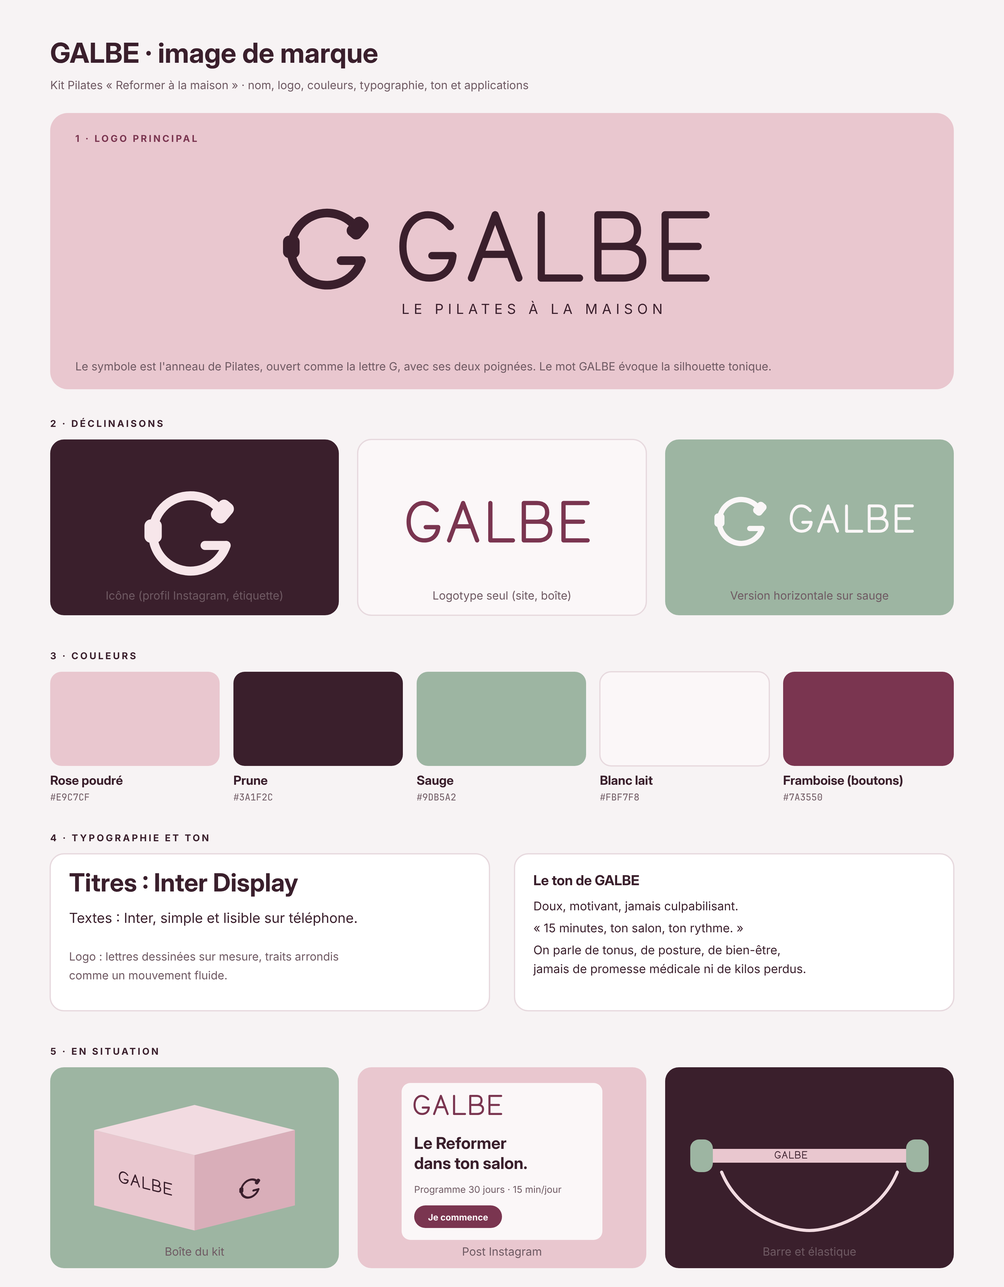
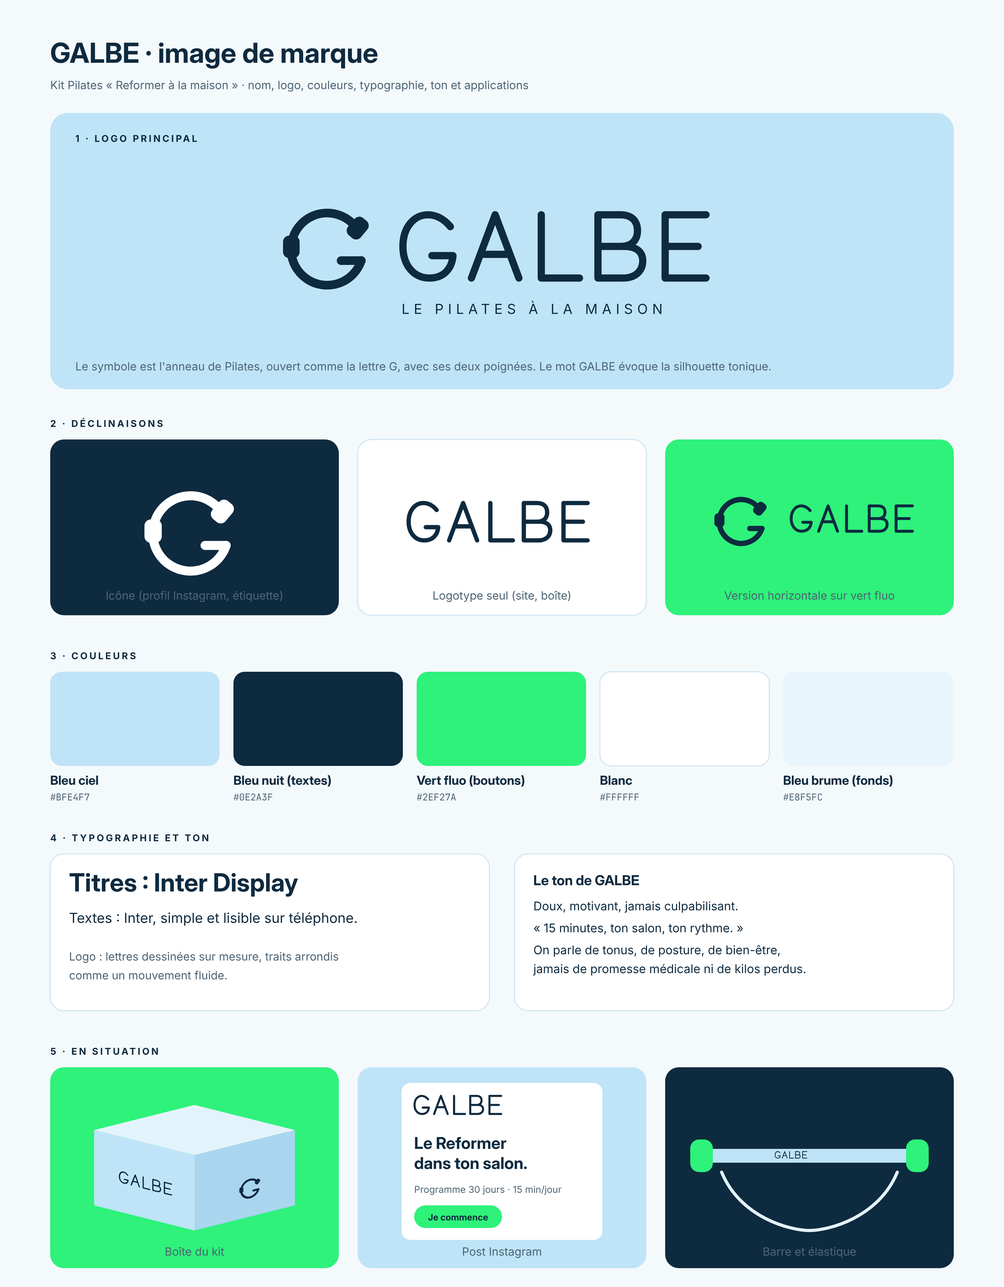
Scutify : GALBE en bleu ciel, blanc et vert fluo
Claude-Session: https://claude.ai/code/session_01N3GcJzoqBz7CtBwAkesLee

diff --git a/scutify/pilates/galbe_marque.html b/scutify/pilates/galbe_marque.html
@@ -1,6 +1,6 @@
 <!doctype html>
 <html><head><meta charset="utf-8">
-<style>html,body{margin:0;background:#f7f3f4}body{width:1600px;height:2050px;font-family:'Inter',sans-serif}</style></head>
+<style>html,body{margin:0;background:#f4f9fc}body{width:1600px;height:2050px;font-family:'Inter',sans-serif}</style></head>
 <body>
 <svg width="1600" height="2050" viewBox="0 0 1600 2050" xmlns="http://www.w3.org/2000/svg">
 <defs>
@@ -21,10 +21,10 @@
     <rect x="-16" y="40" width="22" height="30" rx="8" class="grip"/>
   </g>
   <style>
-    .t{font-family:'Inter Display','Inter',sans-serif;font-weight:700;fill:#3a1f2c}
-    .s{font-size:18px;fill:#6f5a63}
+    .t{font-family:'Inter Display','Inter',sans-serif;font-weight:700;fill:#0e2a3f}
+    .s{font-size:18px;fill:#4d6576}
     .lab{font-size:15px;font-weight:700;letter-spacing:3px}
-    .hex{font-size:15px;fill:#6f5a63;font-family:'JetBrains Mono',monospace}
+    .hex{font-size:15px;fill:#4d6576;font-family:'JetBrains Mono',monospace}
   </style>
 </defs>
 
@@ -32,77 +32,77 @@
 <text x="80" y="142" class="s" font-size="20">Kit Pilates « Reformer à la maison » · nom, logo, couleurs, typographie, ton et applications</text>
 
 <!-- 1. LOGO PRINCIPAL -->
-<rect x="80" y="180" width="1440" height="440" rx="28" fill="#e9c7cf"/>
-<text x="120" y="226" class="lab" fill="#7a3550">1 · LOGO PRINCIPAL</text>
-<g transform="translate(470 330)" stroke="#3a1f2c" class="markc"><g style="fill:#3a1f2c"><use href="#mark" transform="scale(1.15)"/></g></g>
-<g transform="translate(640 340) scale(1.05)" stroke="#3a1f2c"><use href="#word"/></g>
-<text x="640" y="500" font-size="22" fill="#3a1f2c" letter-spacing="7" font-family="Inter">LE PILATES À LA MAISON</text>
-<text x="120" y="590" class="s" fill="#5a3443">Le symbole est l'anneau de Pilates, ouvert comme la lettre G, avec ses deux poignées. Le mot GALBE évoque la silhouette tonique.</text>
+<rect x="80" y="180" width="1440" height="440" rx="28" fill="#bfe4f7"/>
+<text x="120" y="226" class="lab" fill="#0e2a3f">1 · LOGO PRINCIPAL</text>
+<g transform="translate(470 330)" stroke="#0e2a3f" class="markc"><g style="fill:#0e2a3f"><use href="#mark" transform="scale(1.15)"/></g></g>
+<g transform="translate(640 340) scale(1.05)" stroke="#0e2a3f"><use href="#word"/></g>
+<text x="640" y="500" font-size="22" fill="#0e2a3f" letter-spacing="7" font-family="Inter">LE PILATES À LA MAISON</text>
+<text x="120" y="590" class="s" fill="#2c4a5e">Le symbole est l'anneau de Pilates, ouvert comme la lettre G, avec ses deux poignées. Le mot GALBE évoque la silhouette tonique.</text>
 
 <!-- 2. DÉCLINAISONS -->
-<text x="80" y="680" class="lab" fill="#3a1f2c">2 · DÉCLINAISONS</text>
-<rect x="80" y="700" width="460" height="280" rx="22" fill="#3a1f2c"/>
-<g transform="translate(250 780)" stroke="#f7e6ea"><g style="fill:#f7e6ea"><use href="#mark" transform="scale(1.2)"/></g></g>
-<text x="310" y="955" text-anchor="middle" class="s" fill="#d9b8c3">Icône (profil Instagram, étiquette)</text>
-<rect x="570" y="700" width="460" height="280" rx="22" fill="#fbf7f8" stroke="#e7d9de" stroke-width="2"/>
-<g transform="translate(650 800) scale(.62)" stroke="#7a3550"><use href="#word"/></g>
+<text x="80" y="680" class="lab" fill="#0e2a3f">2 · DÉCLINAISONS</text>
+<rect x="80" y="700" width="460" height="280" rx="22" fill="#0e2a3f"/>
+<g transform="translate(250 780)" stroke="#ffffff"><g style="fill:#ffffff"><use href="#mark" transform="scale(1.2)"/></g></g>
+<text x="310" y="955" text-anchor="middle" class="s" fill="#9fc3d8">Icône (profil Instagram, étiquette)</text>
+<rect x="570" y="700" width="460" height="280" rx="22" fill="#ffffff" stroke="#d6e9f3" stroke-width="2"/>
+<g transform="translate(650 800) scale(.62)" stroke="#0e2a3f"><use href="#word"/></g>
 <text x="800" y="955" text-anchor="middle" class="s">Logotype seul (site, boîte)</text>
-<rect x="1060" y="700" width="460" height="280" rx="22" fill="#9db5a2"/>
-<g transform="translate(1150 790) scale(.7)" stroke="#fbf7f8"><g style="fill:#fbf7f8"><use href="#mark"/></g></g>
-<g transform="translate(1260 805) scale(.42)" stroke="#fbf7f8"><use href="#word"/></g>
-<text x="1290" y="955" text-anchor="middle" class="s" fill="#2f4a37">Version horizontale sur sauge</text>
+<rect x="1060" y="700" width="460" height="280" rx="22" fill="#2ef27a"/>
+<g transform="translate(1150 790) scale(.7)" stroke="#0e2a3f"><g style="fill:#0e2a3f"><use href="#mark"/></g></g>
+<g transform="translate(1260 805) scale(.42)" stroke="#0e2a3f"><use href="#word"/></g>
+<text x="1290" y="955" text-anchor="middle" class="s" fill="#0e2a3f">Version horizontale sur vert fluo</text>
 
 <!-- 3. COULEURS -->
-<text x="80" y="1050" class="lab" fill="#3a1f2c">3 · COULEURS</text>
+<text x="80" y="1050" class="lab" fill="#0e2a3f">3 · COULEURS</text>
 <g transform="translate(80 1070)">
-  <rect width="270" height="150" rx="18" fill="#e9c7cf"/><text x="0" y="180" class="t" font-size="20">Rose poudré</text><text x="0" y="205" class="hex">#E9C7CF</text>
-  <rect x="292" width="270" height="150" rx="18" fill="#3a1f2c"/><text x="292" y="180" class="t" font-size="20">Prune</text><text x="292" y="205" class="hex">#3A1F2C</text>
-  <rect x="584" width="270" height="150" rx="18" fill="#9db5a2"/><text x="584" y="180" class="t" font-size="20">Sauge</text><text x="584" y="205" class="hex">#9DB5A2</text>
-  <rect x="876" width="270" height="150" rx="18" fill="#fbf7f8" stroke="#e7d9de" stroke-width="2"/><text x="876" y="180" class="t" font-size="20">Blanc lait</text><text x="876" y="205" class="hex">#FBF7F8</text>
-  <rect x="1168" width="272" height="150" rx="18" fill="#7a3550"/><text x="1168" y="180" class="t" font-size="20">Framboise (boutons)</text><text x="1168" y="205" class="hex">#7A3550</text>
+  <rect width="270" height="150" rx="18" fill="#bfe4f7"/><text x="0" y="180" class="t" font-size="20">Bleu ciel</text><text x="0" y="205" class="hex">#BFE4F7</text>
+  <rect x="292" width="270" height="150" rx="18" fill="#0e2a3f"/><text x="292" y="180" class="t" font-size="20">Bleu nuit (textes)</text><text x="292" y="205" class="hex">#0E2A3F</text>
+  <rect x="584" width="270" height="150" rx="18" fill="#2ef27a"/><text x="584" y="180" class="t" font-size="20">Vert fluo (boutons)</text><text x="584" y="205" class="hex">#2EF27A</text>
+  <rect x="876" width="270" height="150" rx="18" fill="#ffffff" stroke="#d6e9f3" stroke-width="2"/><text x="876" y="180" class="t" font-size="20">Blanc</text><text x="876" y="205" class="hex">#FFFFFF</text>
+  <rect x="1168" width="272" height="150" rx="18" fill="#e8f5fc"/><text x="1168" y="180" class="t" font-size="20">Bleu brume (fonds)</text><text x="1168" y="205" class="hex">#E8F5FC</text>
 </g>
 
 <!-- 4. TYPO + TON -->
-<text x="80" y="1340" class="lab" fill="#3a1f2c">4 · TYPOGRAPHIE ET TON</text>
-<rect x="80" y="1360" width="700" height="250" rx="22" fill="#fff" stroke="#e7d9de" stroke-width="2"/>
-<text x="110" y="1420" font-family="'Inter Display',Inter,sans-serif" font-weight="700" font-size="40" fill="#3a1f2c">Titres : Inter Display</text>
-<text x="110" y="1470" font-family="Inter" font-size="22" fill="#3a1f2c">Textes : Inter, simple et lisible sur téléphone.</text>
-<text x="110" y="1530" font-family="Inter" font-size="18" fill="#6f5a63">Logo : lettres dessinées sur mesure, traits arrondis</text>
-<text x="110" y="1560" font-family="Inter" font-size="18" fill="#6f5a63">comme un mouvement fluide.</text>
-<rect x="820" y="1360" width="700" height="250" rx="22" fill="#fff" stroke="#e7d9de" stroke-width="2"/>
+<text x="80" y="1340" class="lab" fill="#0e2a3f">4 · TYPOGRAPHIE ET TON</text>
+<rect x="80" y="1360" width="700" height="250" rx="22" fill="#fff" stroke="#d6e9f3" stroke-width="2"/>
+<text x="110" y="1420" font-family="'Inter Display',Inter,sans-serif" font-weight="700" font-size="40" fill="#0e2a3f">Titres : Inter Display</text>
+<text x="110" y="1470" font-family="Inter" font-size="22" fill="#0e2a3f">Textes : Inter, simple et lisible sur téléphone.</text>
+<text x="110" y="1530" font-family="Inter" font-size="18" fill="#4d6576">Logo : lettres dessinées sur mesure, traits arrondis</text>
+<text x="110" y="1560" font-family="Inter" font-size="18" fill="#4d6576">comme un mouvement fluide.</text>
+<rect x="820" y="1360" width="700" height="250" rx="22" fill="#fff" stroke="#d6e9f3" stroke-width="2"/>
 <text x="850" y="1410" class="t" font-size="22">Le ton de GALBE</text>
-<text x="850" y="1450" font-family="Inter" font-size="19" fill="#3a1f2c">Doux, motivant, jamais culpabilisant.</text>
-<text x="850" y="1485" font-family="Inter" font-size="19" fill="#3a1f2c">« 15 minutes, ton salon, ton rythme. »</text>
-<text x="850" y="1520" font-family="Inter" font-size="19" fill="#3a1f2c">On parle de tonus, de posture, de bien-être,</text>
-<text x="850" y="1550" font-family="Inter" font-size="19" fill="#3a1f2c">jamais de promesse médicale ni de kilos perdus.</text>
+<text x="850" y="1450" font-family="Inter" font-size="19" fill="#0e2a3f">Doux, motivant, jamais culpabilisant.</text>
+<text x="850" y="1485" font-family="Inter" font-size="19" fill="#0e2a3f">« 15 minutes, ton salon, ton rythme. »</text>
+<text x="850" y="1520" font-family="Inter" font-size="19" fill="#0e2a3f">On parle de tonus, de posture, de bien-être,</text>
+<text x="850" y="1550" font-family="Inter" font-size="19" fill="#0e2a3f">jamais de promesse médicale ni de kilos perdus.</text>
 
 <!-- 5. APPLICATIONS -->
-<text x="80" y="1680" class="lab" fill="#3a1f2c">5 · EN SITUATION</text>
+<text x="80" y="1680" class="lab" fill="#0e2a3f">5 · EN SITUATION</text>
 <!-- Boîte du kit -->
-<rect x="80" y="1700" width="460" height="320" rx="22" fill="#9db5a2"/>
+<rect x="80" y="1700" width="460" height="320" rx="22" fill="#2ef27a"/>
 <g transform="translate(150 1760)">
-  <path d="M0 40 L160 0 L320 40 L160 80 Z" fill="#f2dbe1"/>
-  <path d="M0 40 L160 80 V200 L0 160 Z" fill="#e9c7cf"/>
-  <path d="M320 40 L160 80 V200 L320 160 Z" fill="#d9aeb9"/>
-  <g transform="translate(40 105) skewY(14) scale(.18)" stroke="#3a1f2c"><use href="#word"/></g>
-  <g transform="translate(236 120) skewY(-14) scale(.28)" stroke="#3a1f2c"><g style="fill:#3a1f2c"><use href="#mark"/></g></g>
+  <path d="M0 40 L160 0 L320 40 L160 80 Z" fill="#e3f3fc"/>
+  <path d="M0 40 L160 80 V200 L0 160 Z" fill="#bfe4f7"/>
+  <path d="M320 40 L160 80 V200 L320 160 Z" fill="#a9d6ee"/>
+  <g transform="translate(40 105) skewY(14) scale(.18)" stroke="#0e2a3f"><use href="#word"/></g>
+  <g transform="translate(236 120) skewY(-14) scale(.28)" stroke="#0e2a3f"><g style="fill:#0e2a3f"><use href="#mark"/></g></g>
 </g>
-<text x="310" y="2000" text-anchor="middle" class="s" fill="#2f4a37">Boîte du kit</text>
+<text x="310" y="2000" text-anchor="middle" class="s" fill="#0e2a3f">Boîte du kit</text>
 <!-- Post Instagram -->
-<rect x="570" y="1700" width="460" height="320" rx="22" fill="#e9c7cf"/>
-<rect x="640" y="1725" width="320" height="250" rx="14" fill="#fbf7f8"/>
-<g transform="translate(660 1745) scale(.3)" stroke="#7a3550"><use href="#word"/></g>
-<text x="660" y="1830" font-family="'Inter Display',Inter" font-weight="700" font-size="26" fill="#3a1f2c">Le Reformer</text>
-<text x="660" y="1862" font-family="'Inter Display',Inter" font-weight="700" font-size="26" fill="#3a1f2c">dans ton salon.</text>
-<text x="660" y="1900" font-family="Inter" font-size="15" fill="#6f5a63">Programme 30 jours · 15 min/jour</text>
-<rect x="660" y="1920" width="140" height="36" rx="18" fill="#7a3550"/><text x="730" y="1944" text-anchor="middle" font-family="Inter" font-weight="700" font-size="14" fill="#fbf7f8">Je commence</text>
-<text x="800" y="2000" text-anchor="middle" class="s" fill="#5a3443">Post Instagram</text>
+<rect x="570" y="1700" width="460" height="320" rx="22" fill="#bfe4f7"/>
+<rect x="640" y="1725" width="320" height="250" rx="14" fill="#ffffff"/>
+<g transform="translate(660 1745) scale(.3)" stroke="#0e2a3f"><use href="#word"/></g>
+<text x="660" y="1830" font-family="'Inter Display',Inter" font-weight="700" font-size="26" fill="#0e2a3f">Le Reformer</text>
+<text x="660" y="1862" font-family="'Inter Display',Inter" font-weight="700" font-size="26" fill="#0e2a3f">dans ton salon.</text>
+<text x="660" y="1900" font-family="Inter" font-size="15" fill="#4d6576">Programme 30 jours · 15 min/jour</text>
+<rect x="660" y="1920" width="140" height="36" rx="18" fill="#2ef27a"/><text x="730" y="1944" text-anchor="middle" font-family="Inter" font-weight="700" font-size="14" fill="#0e2a3f">Je commence</text>
+<text x="800" y="2000" text-anchor="middle" class="s" fill="#2c4a5e">Post Instagram</text>
 <!-- Étiquette barre -->
-<rect x="1060" y="1700" width="460" height="320" rx="22" fill="#3a1f2c"/>
-<rect x="1110" y="1830" width="360" height="22" rx="11" fill="#e9c7cf"/>
-<rect x="1100" y="1815" width="36" height="52" rx="14" fill="#9db5a2"/><rect x="1444" y="1815" width="36" height="52" rx="14" fill="#9db5a2"/>
-<g transform="translate(1235 1834) scale(.11)" stroke="#3a1f2c"><use href="#word"/></g>
-<path d="M1150 1867 C1180 1940 1260 1960 1290 1960 C1320 1960 1400 1940 1430 1867" fill="none" stroke="#f2dbe1" stroke-width="5" stroke-linecap="round"/>
-<text x="1290" y="2000" text-anchor="middle" class="s" fill="#d9b8c3">Barre et élastique</text>
+<rect x="1060" y="1700" width="460" height="320" rx="22" fill="#0e2a3f"/>
+<rect x="1110" y="1830" width="360" height="22" rx="11" fill="#bfe4f7"/>
+<rect x="1100" y="1815" width="36" height="52" rx="14" fill="#2ef27a"/><rect x="1444" y="1815" width="36" height="52" rx="14" fill="#2ef27a"/>
+<g transform="translate(1235 1834) scale(.11)" stroke="#0e2a3f"><use href="#word"/></g>
+<path d="M1150 1867 C1180 1940 1260 1960 1290 1960 C1320 1960 1400 1940 1430 1867" fill="none" stroke="#e3f3fc" stroke-width="5" stroke-linecap="round"/>
+<text x="1290" y="2000" text-anchor="middle" class="s" fill="#9fc3d8">Barre et élastique</text>
 </svg>
 </body></html>

diff --git a/scutify/pilates/galbe_marque_v1_rose.html b/scutify/pilates/galbe_marque_v1_rose.html
@@ -1,0 +1,108 @@
+<!doctype html>
+<html><head><meta charset="utf-8">
+<style>html,body{margin:0;background:#f7f3f4}body{width:1600px;height:2050px;font-family:'Inter',sans-serif}</style></head>
+<body>
+<svg width="1600" height="2050" viewBox="0 0 1600 2050" xmlns="http://www.w3.org/2000/svg">
+<defs>
+  <!-- Lettres dessinées sur mesure, traits arrondis (hauteur 100, trait 12) -->
+  <g id="L-G"><path d="M74 20 C64 8 52 2 40 2 C18 2 2 22 2 50 C2 78 18 98 42 98 C62 98 76 86 78 64 H46"/></g>
+  <g id="L-A"><path d="M2 98 L38 2 L74 98 M17 62 H59"/></g>
+  <g id="L-L"><path d="M4 2 V98 H62"/></g>
+  <g id="L-B"><path d="M4 2 V98 H42 C62 98 72 86 72 72 C72 58 62 50 44 50 H4 M4 50 H38 C56 50 64 40 64 26 C64 12 56 2 38 2 H4"/></g>
+  <g id="L-E"><path d="M66 2 H4 V98 H66 M4 50 H54"/></g>
+  <g id="word" fill="none" stroke-width="11" stroke-linecap="round" stroke-linejoin="round">
+    <use href="#L-G"/><use href="#L-A" x="104"/><use href="#L-L" x="208"/><use href="#L-B" x="294"/><use href="#L-E" x="396"/>
+  </g>
+  <!-- Symbole : l'anneau de Pilates, ouvert comme un G, avec ses deux poignées -->
+  <g id="mark">
+    <path d="M86 30 A50 50 0 1 0 92 74" fill="none" stroke-width="12" stroke-linecap="round"/>
+    <path d="M92 74 H64" fill="none" stroke-width="12" stroke-linecap="round"/>
+    <rect x="76" y="14" width="22" height="30" rx="8" transform="rotate(40 87 29)" class="grip"/>
+    <rect x="-16" y="40" width="22" height="30" rx="8" class="grip"/>
+  </g>
+  <style>
+    .t{font-family:'Inter Display','Inter',sans-serif;font-weight:700;fill:#3a1f2c}
+    .s{font-size:18px;fill:#6f5a63}
+    .lab{font-size:15px;font-weight:700;letter-spacing:3px}
+    .hex{font-size:15px;fill:#6f5a63;font-family:'JetBrains Mono',monospace}
+  </style>
+</defs>
+
+<text x="80" y="100" class="t" font-size="44">GALBE · image de marque</text>
+<text x="80" y="142" class="s" font-size="20">Kit Pilates « Reformer à la maison » · nom, logo, couleurs, typographie, ton et applications</text>
+
+<!-- 1. LOGO PRINCIPAL -->
+<rect x="80" y="180" width="1440" height="440" rx="28" fill="#e9c7cf"/>
+<text x="120" y="226" class="lab" fill="#7a3550">1 · LOGO PRINCIPAL</text>
+<g transform="translate(470 330)" stroke="#3a1f2c" class="markc"><g style="fill:#3a1f2c"><use href="#mark" transform="scale(1.15)"/></g></g>
+<g transform="translate(640 340) scale(1.05)" stroke="#3a1f2c"><use href="#word"/></g>
+<text x="640" y="500" font-size="22" fill="#3a1f2c" letter-spacing="7" font-family="Inter">LE PILATES À LA MAISON</text>
+<text x="120" y="590" class="s" fill="#5a3443">Le symbole est l'anneau de Pilates, ouvert comme la lettre G, avec ses deux poignées. Le mot GALBE évoque la silhouette tonique.</text>
+
+<!-- 2. DÉCLINAISONS -->
+<text x="80" y="680" class="lab" fill="#3a1f2c">2 · DÉCLINAISONS</text>
+<rect x="80" y="700" width="460" height="280" rx="22" fill="#3a1f2c"/>
+<g transform="translate(250 780)" stroke="#f7e6ea"><g style="fill:#f7e6ea"><use href="#mark" transform="scale(1.2)"/></g></g>
+<text x="310" y="955" text-anchor="middle" class="s" fill="#d9b8c3">Icône (profil Instagram, étiquette)</text>
+<rect x="570" y="700" width="460" height="280" rx="22" fill="#fbf7f8" stroke="#e7d9de" stroke-width="2"/>
+<g transform="translate(650 800) scale(.62)" stroke="#7a3550"><use href="#word"/></g>
+<text x="800" y="955" text-anchor="middle" class="s">Logotype seul (site, boîte)</text>
+<rect x="1060" y="700" width="460" height="280" rx="22" fill="#9db5a2"/>
+<g transform="translate(1150 790) scale(.7)" stroke="#fbf7f8"><g style="fill:#fbf7f8"><use href="#mark"/></g></g>
+<g transform="translate(1260 805) scale(.42)" stroke="#fbf7f8"><use href="#word"/></g>
+<text x="1290" y="955" text-anchor="middle" class="s" fill="#2f4a37">Version horizontale sur sauge</text>
+
+<!-- 3. COULEURS -->
+<text x="80" y="1050" class="lab" fill="#3a1f2c">3 · COULEURS</text>
+<g transform="translate(80 1070)">
+  <rect width="270" height="150" rx="18" fill="#e9c7cf"/><text x="0" y="180" class="t" font-size="20">Rose poudré</text><text x="0" y="205" class="hex">#E9C7CF</text>
+  <rect x="292" width="270" height="150" rx="18" fill="#3a1f2c"/><text x="292" y="180" class="t" font-size="20">Prune</text><text x="292" y="205" class="hex">#3A1F2C</text>
+  <rect x="584" width="270" height="150" rx="18" fill="#9db5a2"/><text x="584" y="180" class="t" font-size="20">Sauge</text><text x="584" y="205" class="hex">#9DB5A2</text>
+  <rect x="876" width="270" height="150" rx="18" fill="#fbf7f8" stroke="#e7d9de" stroke-width="2"/><text x="876" y="180" class="t" font-size="20">Blanc lait</text><text x="876" y="205" class="hex">#FBF7F8</text>
+  <rect x="1168" width="272" height="150" rx="18" fill="#7a3550"/><text x="1168" y="180" class="t" font-size="20">Framboise (boutons)</text><text x="1168" y="205" class="hex">#7A3550</text>
+</g>
+
+<!-- 4. TYPO + TON -->
+<text x="80" y="1340" class="lab" fill="#3a1f2c">4 · TYPOGRAPHIE ET TON</text>
+<rect x="80" y="1360" width="700" height="250" rx="22" fill="#fff" stroke="#e7d9de" stroke-width="2"/>
+<text x="110" y="1420" font-family="'Inter Display',Inter,sans-serif" font-weight="700" font-size="40" fill="#3a1f2c">Titres : Inter Display</text>
+<text x="110" y="1470" font-family="Inter" font-size="22" fill="#3a1f2c">Textes : Inter, simple et lisible sur téléphone.</text>
+<text x="110" y="1530" font-family="Inter" font-size="18" fill="#6f5a63">Logo : lettres dessinées sur mesure, traits arrondis</text>
+<text x="110" y="1560" font-family="Inter" font-size="18" fill="#6f5a63">comme un mouvement fluide.</text>
+<rect x="820" y="1360" width="700" height="250" rx="22" fill="#fff" stroke="#e7d9de" stroke-width="2"/>
+<text x="850" y="1410" class="t" font-size="22">Le ton de GALBE</text>
+<text x="850" y="1450" font-family="Inter" font-size="19" fill="#3a1f2c">Doux, motivant, jamais culpabilisant.</text>
+<text x="850" y="1485" font-family="Inter" font-size="19" fill="#3a1f2c">« 15 minutes, ton salon, ton rythme. »</text>
+<text x="850" y="1520" font-family="Inter" font-size="19" fill="#3a1f2c">On parle de tonus, de posture, de bien-être,</text>
+<text x="850" y="1550" font-family="Inter" font-size="19" fill="#3a1f2c">jamais de promesse médicale ni de kilos perdus.</text>
+
+<!-- 5. APPLICATIONS -->
+<text x="80" y="1680" class="lab" fill="#3a1f2c">5 · EN SITUATION</text>
+<!-- Boîte du kit -->
+<rect x="80" y="1700" width="460" height="320" rx="22" fill="#9db5a2"/>
+<g transform="translate(150 1760)">
+  <path d="M0 40 L160 0 L320 40 L160 80 Z" fill="#f2dbe1"/>
+  <path d="M0 40 L160 80 V200 L0 160 Z" fill="#e9c7cf"/>
+  <path d="M320 40 L160 80 V200 L320 160 Z" fill="#d9aeb9"/>
+  <g transform="translate(40 105) skewY(14) scale(.18)" stroke="#3a1f2c"><use href="#word"/></g>
+  <g transform="translate(236 120) skewY(-14) scale(.28)" stroke="#3a1f2c"><g style="fill:#3a1f2c"><use href="#mark"/></g></g>
+</g>
+<text x="310" y="2000" text-anchor="middle" class="s" fill="#2f4a37">Boîte du kit</text>
+<!-- Post Instagram -->
+<rect x="570" y="1700" width="460" height="320" rx="22" fill="#e9c7cf"/>
+<rect x="640" y="1725" width="320" height="250" rx="14" fill="#fbf7f8"/>
+<g transform="translate(660 1745) scale(.3)" stroke="#7a3550"><use href="#word"/></g>
+<text x="660" y="1830" font-family="'Inter Display',Inter" font-weight="700" font-size="26" fill="#3a1f2c">Le Reformer</text>
+<text x="660" y="1862" font-family="'Inter Display',Inter" font-weight="700" font-size="26" fill="#3a1f2c">dans ton salon.</text>
+<text x="660" y="1900" font-family="Inter" font-size="15" fill="#6f5a63">Programme 30 jours · 15 min/jour</text>
+<rect x="660" y="1920" width="140" height="36" rx="18" fill="#7a3550"/><text x="730" y="1944" text-anchor="middle" font-family="Inter" font-weight="700" font-size="14" fill="#fbf7f8">Je commence</text>
+<text x="800" y="2000" text-anchor="middle" class="s" fill="#5a3443">Post Instagram</text>
+<!-- Étiquette barre -->
+<rect x="1060" y="1700" width="460" height="320" rx="22" fill="#3a1f2c"/>
+<rect x="1110" y="1830" width="360" height="22" rx="11" fill="#e9c7cf"/>
+<rect x="1100" y="1815" width="36" height="52" rx="14" fill="#9db5a2"/><rect x="1444" y="1815" width="36" height="52" rx="14" fill="#9db5a2"/>
+<g transform="translate(1235 1834) scale(.11)" stroke="#3a1f2c"><use href="#word"/></g>
+<path d="M1150 1867 C1180 1940 1260 1960 1290 1960 C1320 1960 1400 1940 1430 1867" fill="none" stroke="#f2dbe1" stroke-width="5" stroke-linecap="round"/>
+<text x="1290" y="2000" text-anchor="middle" class="s" fill="#d9b8c3">Barre et élastique</text>
+</svg>
+</body></html>

diff --git a/scutify/pilates/etude_marche_galbe.html b/scutify/pilates/etude_marche_galbe.html
@@ -5,16 +5,16 @@
 <style>
 /* Mise en page : dossier d'étude de marché en 4 parties (ordre de la Road Map Scutify), colonne de lecture, tableaux qui défilent seuls sur téléphone */
 :root{
-  --bg:#fbf7f8; --surface:#ffffff; --ink:#3a1f2c; --muted:#76606a; --line:#ecdfe3;
-  --rose:#e9c7cf; --rose-soft:#f6e6ea; --sauge:#9db5a2; --sauge-ink:#3f5a46; --cta:#7a3550; --warn:#9a5214; --warn-bg:#fbefe3;
+  --bg:#f4f9fc; --surface:#ffffff; --ink:#0e2a3f; --muted:#4d6576; --line:#d6e9f3;
+  --rose:#bfe4f7; --rose-soft:#e8f5fc; --sauge:#2ef27a; --sauge-ink:#0b7a3c; --cta:#0b5f8a; --warn:#9a5214; --warn-bg:#fbefe3;
   --display:'Outfit',ui-sans-serif,system-ui,sans-serif; --body:'Inter',ui-sans-serif,system-ui,-apple-system,sans-serif;
 }
 @media (prefers-color-scheme: dark){:root:not([data-theme="light"]){
-  --bg:#1a1015; --surface:#24161d; --ink:#f3e6eb; --muted:#c3a9b4; --line:#3a2731;
-  --rose:#5a3343; --rose-soft:#2e1c25; --sauge:#6f8c76; --sauge-ink:#b9d3be; --cta:#e9a3bb; --warn:#f0b07a; --warn-bg:#2c1d12; color-scheme:dark}}
+  --bg:#0b1824; --surface:#112333; --ink:#e6f2f9; --muted:#9fbdd0; --line:#1f3a50;
+  --rose:#1d4a66; --rose-soft:#132c3f; --sauge:#2ef27a; --sauge-ink:#5ff59a; --cta:#8fd3f5; --warn:#f0b07a; --warn-bg:#2c1d12; color-scheme:dark}}
 :root[data-theme="dark"]{
-  --bg:#1a1015; --surface:#24161d; --ink:#f3e6eb; --muted:#c3a9b4; --line:#3a2731;
-  --rose:#5a3343; --rose-soft:#2e1c25; --sauge:#6f8c76; --sauge-ink:#b9d3be; --cta:#e9a3bb; --warn:#f0b07a; --warn-bg:#2c1d12; color-scheme:dark}
+  --bg:#0b1824; --surface:#112333; --ink:#e6f2f9; --muted:#9fbdd0; --line:#1f3a50;
+  --rose:#1d4a66; --rose-soft:#132c3f; --sauge:#2ef27a; --sauge-ink:#5ff59a; --cta:#8fd3f5; --warn:#f0b07a; --warn-bg:#2c1d12; color-scheme:dark}
 body{background:var(--bg);color:var(--ink);font:15px/1.65 var(--body);margin:0}
 .wrap{max-width:960px;margin:0 auto;padding-left:max(16px,env(safe-area-inset-left,0px));padding-right:max(16px,env(safe-area-inset-right,0px));padding-block:32px 64px}
 h1,h2,h3{font-family:var(--display);text-wrap:balance;line-height:1.2;margin:0}
@@ -45,7 +45,7 @@ tr.us td{background:var(--rose-soft);font-weight:600}
 ol.q{padding-left:22px}
 ol.q li{margin-bottom:8px}
 ol.q .why{display:block;color:var(--muted);font-size:13px}
-.tag{display:inline-block;font-size:11px;letter-spacing:.06em;text-transform:uppercase;background:var(--sauge);color:var(--bg);border-radius:999px;padding:2px 9px;margin-right:6px}
+.tag{display:inline-block;font-size:11px;letter-spacing:.06em;text-transform:uppercase;background:var(--sauge);color:#0e2a3f;border-radius:999px;padding:2px 9px;margin-right:6px}
 a{color:var(--cta)}
 .src{font-size:13px;color:var(--muted)}
 </style>

diff --git a/scutify/REPRISE_CLAUDE_CODE.md b/scutify/REPRISE_CLAUDE_CODE.md
@@ -417,3 +417,5 @@ Version conseillée : polarisée iRun 1601430271723 (7,48 $ → 34,90 €, gain 
 Symbole = anneau de Pilates en forme de G ; couleurs rose poudré, prune, sauge, blanc lait, framboise. Nom à vérifier à l'INPI.
 
 ## Étape — Étude de marché GALBE (étape 02) : https://claude.ai/artifact/LpbZQNai5TDL3heZAQxvzc (source pilates/etude_marche_galbe.html)
+
+## Étape — Couleurs GALBE changées (Jairo) : bleu ciel #BFE4F7, bleu nuit #0E2A3F, vert fluo #2EF27A, blanc, bleu brume #E8F5FC. Ancienne version rose : pilates/galbe_marque_v1_rose.*
